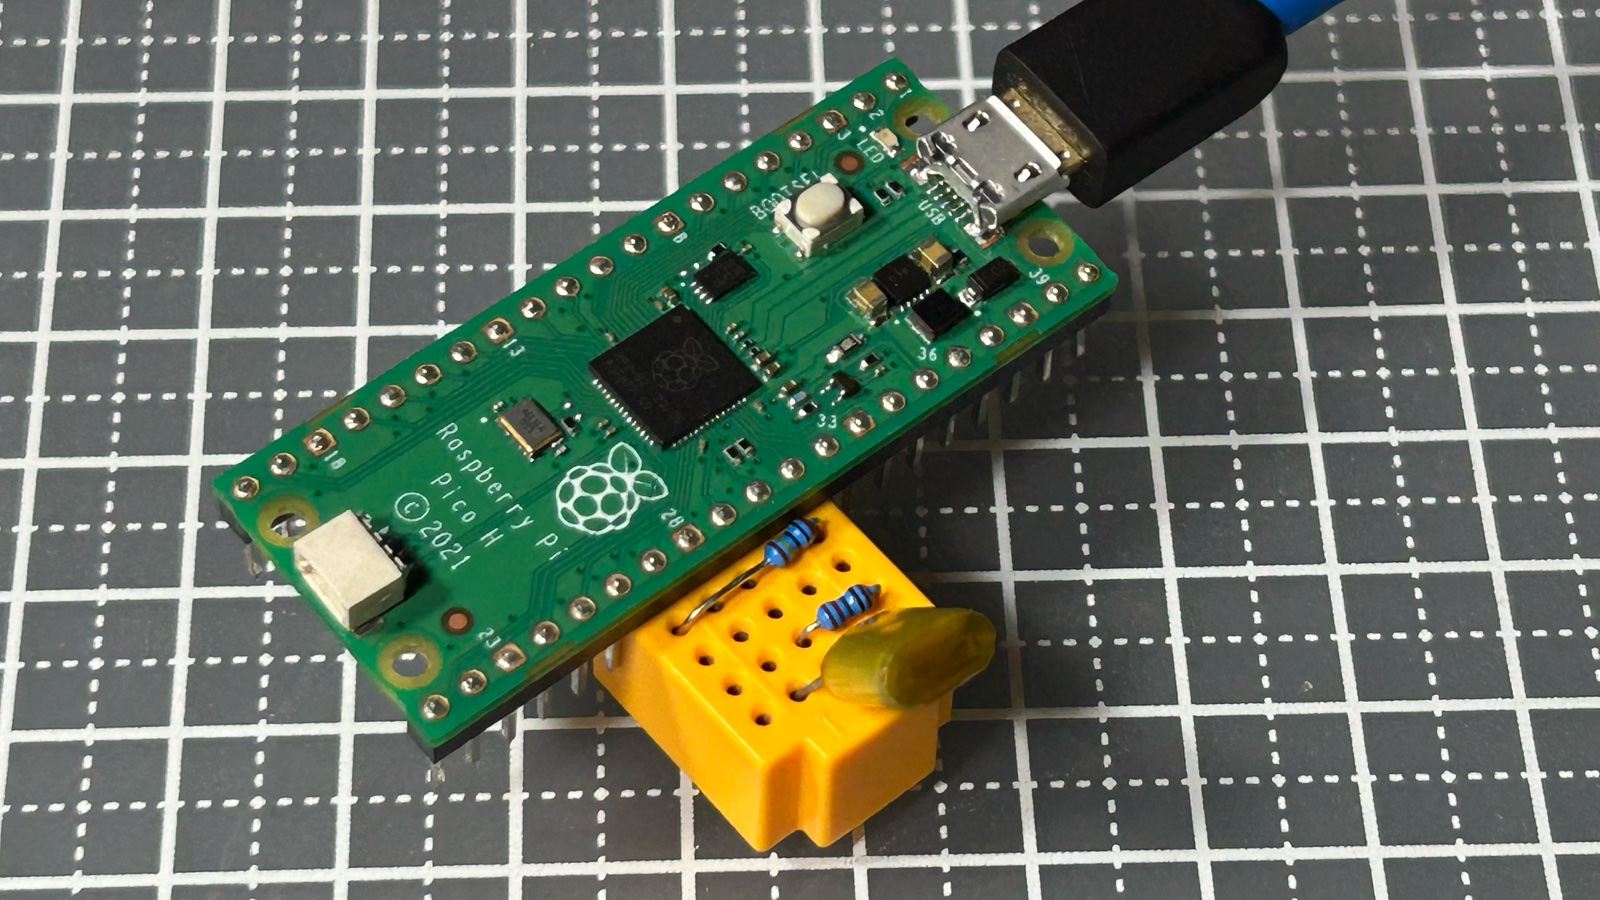
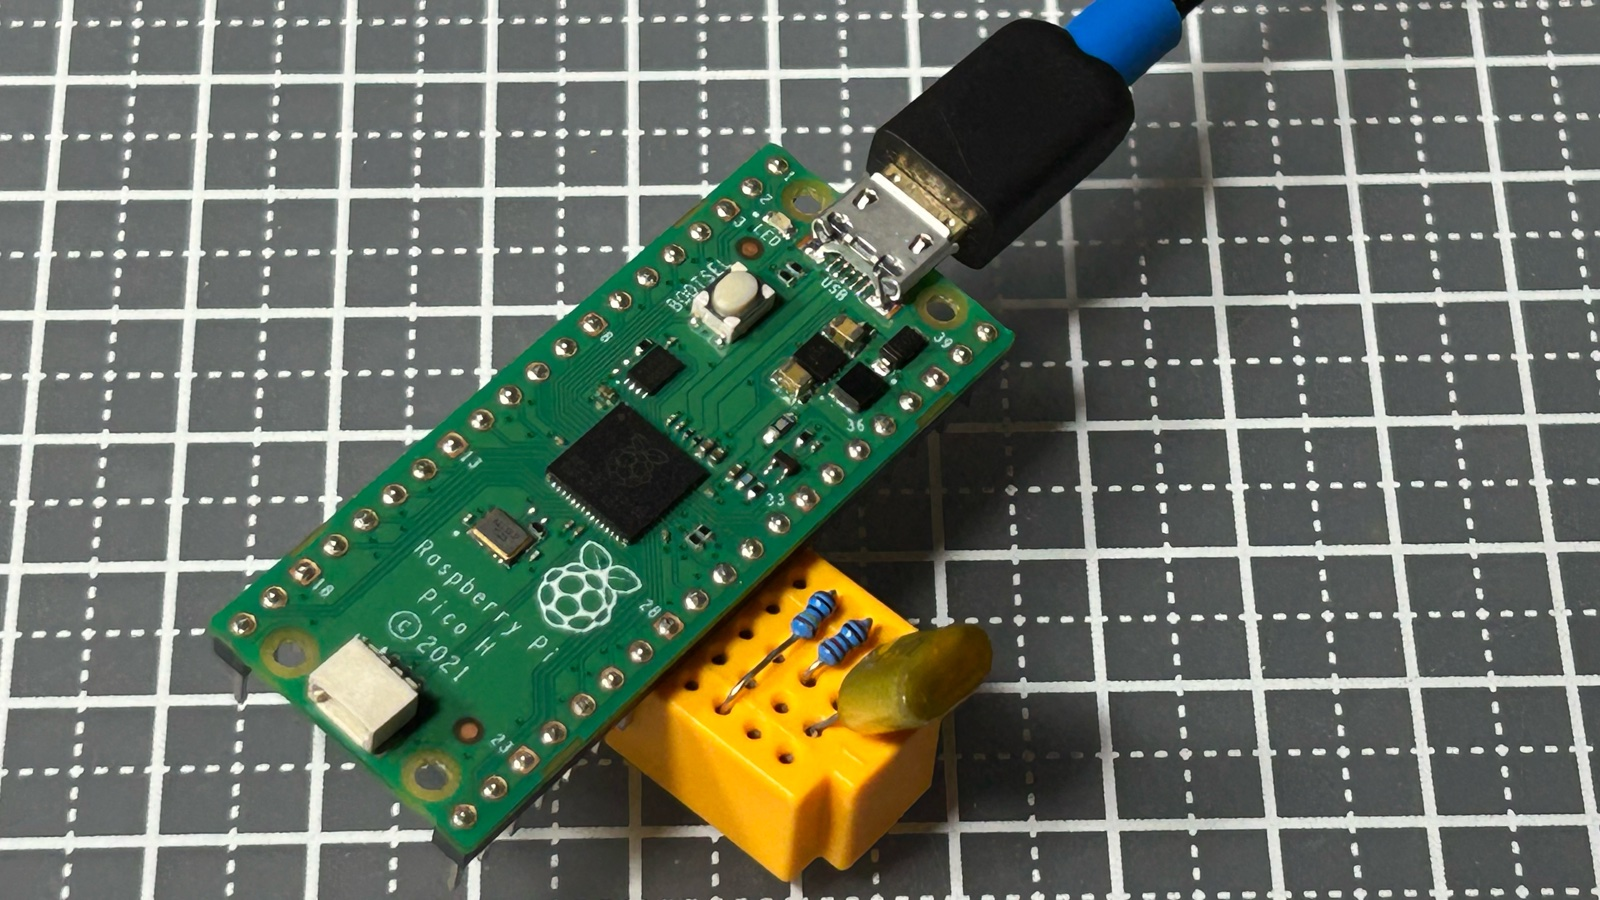
README の写真を新しいものに差し替え
- 先頭と Pico 2 の写真を、1MΩ の足を基板から離した今の配線の写真に差し替え
- 真上から見た写真 (部品が 3 × 5 の穴に収まる) と、裏側のピン表示の写真を追加
- 1MΩ の足が Pico の基板に触れると低容量レンジがずれる、という注意を追加
- 写真はすべて位置情報などのメタデータを取り除いたもの

diff --git a/README.md b/README.md
@@ -12,12 +12,17 @@ GP22 ──[10kΩ]──┐
 GP21 ──[1MΩ ]──┘
 ```
 
-- Pico をブレッドボードに直接挿し、ピン 27〜31 (GP21 / GND / GP22 / RUN / GP26) の行を使います。配置は [BreadBoard.txt](BreadBoard.txt) にあります。
+- Pico をブレッドボードに直接挿し、ピン 27〜31 (GP21 / GND / GP22 / RUN / GP26) の行を使います。部品は 3 × 5 の穴に収まります。配置は [BreadBoard.txt](BreadBoard.txt) にあります。
 - RUN の行には何も挿さないでください (GND に落ちると Pico がリセットされます)。
 - 電解コンデンサは + を GP26 側に挿し、挿す前に足をショートして放電してください。
+- 1MΩ の足は Pico の基板に触れないようにしてください。わずかでも触れると、低容量レンジの値が大きくずれて揺れます (高容量レンジは正常なまま)。
 - 抵抗値は初期値の公称値 (1MΩ / 10kΩ) のままでも測れますが、次のどちらかで精度が上がります (Mac アプリの「抵抗値」欄からできます)。
     - テスターで測った値を入れる (`R` コマンド)
     - 値の分かっているコンデンサ (C0G / PP フィルム / ポリスチレンの ±1% など) を挿して、抵抗値を逆算させる (`K` コマンド)。30nF 以上のものなら 10kΩ 側とレンジ間校正もまとめて済みます
+
+| 真上から (部品は 3 × 5 の穴に収まる) | 裏側 (使う 5 本のピン) |
+| --- | --- |
+| ![真上から見たブレッドボード](images/pico-top.jpg) | ![Pico 2 の裏側のピン表示](images/pico2-bottom.jpg) |
 
 ## 測り方
 
